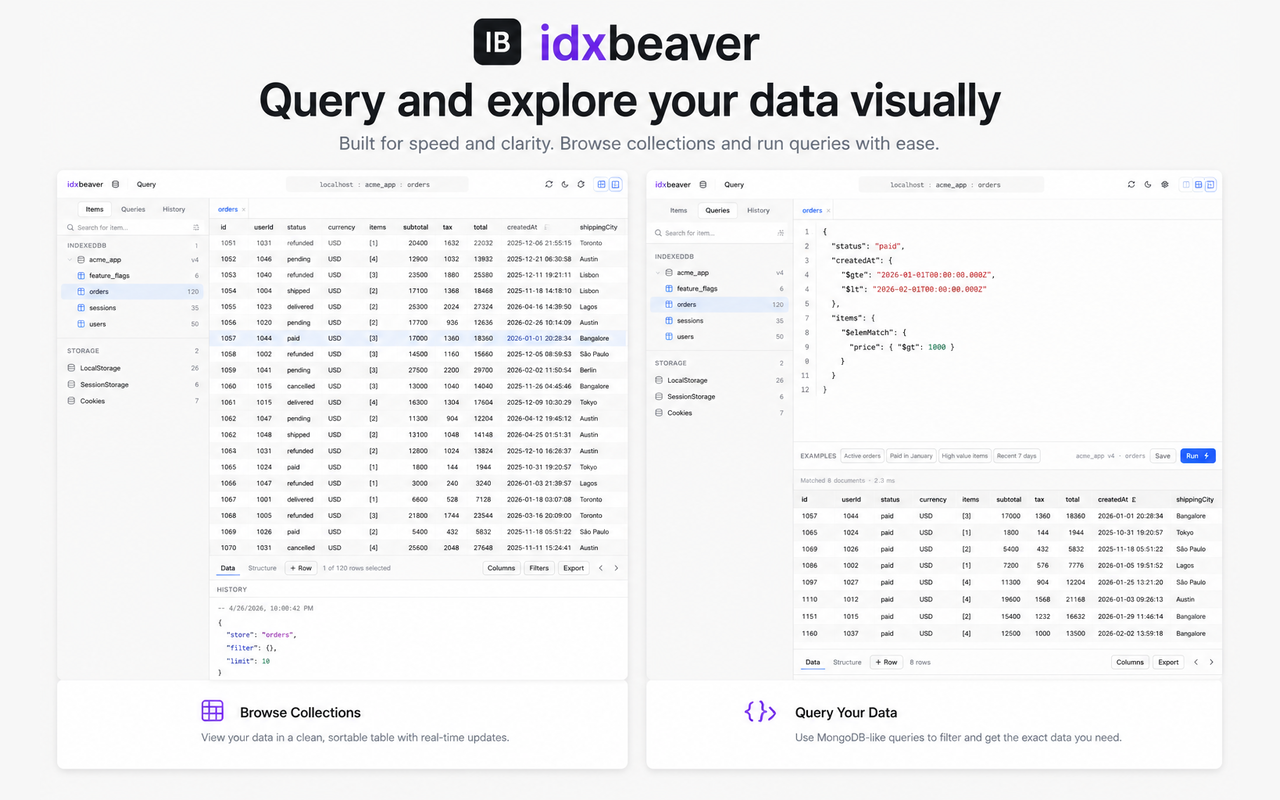
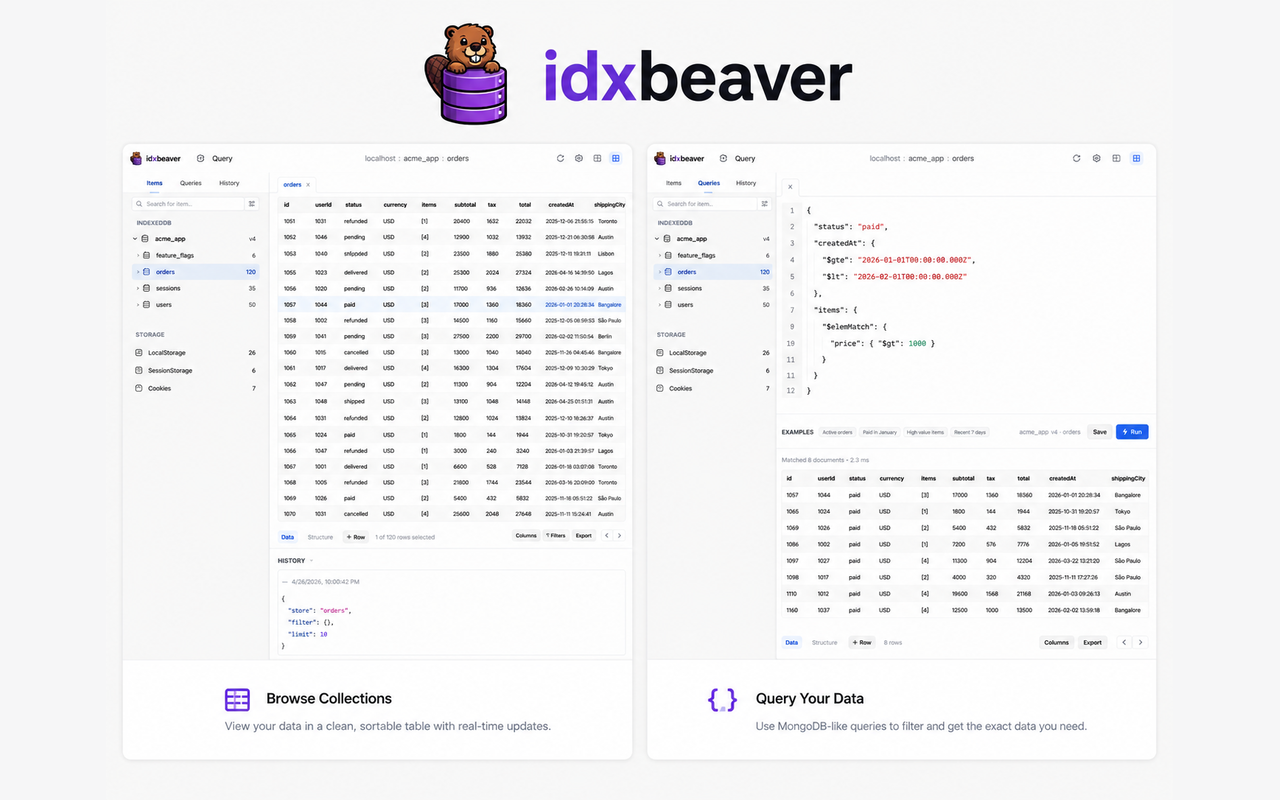
docs(store): refresh Chrome Web Store listing copy and screenshots
- Rewrite name, summary, and description to fit the ≤45/≤132 char limits
  and drop superlatives flagged by the listing guide.
- Swap privacy URL to https://indexbeaver.vercel.app/privacy/.
- Add table, list, query, and filtering 1280x800 screenshots; refit the
  mockup to 1280x800 with neutral side padding.

diff --git a/docs/CHROME_WEB_STORE.md b/docs/CHROME_WEB_STORE.md
@@ -69,38 +69,63 @@ Copy/paste directly into the Dev Console fields.
 
 ## Store listing tab
 
-### Name
+### Name (≤45 chars)
 ```
-IdxBeaver — Browser Storage Client
+IdxBeaver — IndexedDB & Storage Inspector
 ```
-(32 chars max; "IdxBeaver" alone is fine if you prefer a tighter brand.)
+(41 chars. The store allows up to 45; clear-and-descriptive beats clever. Drop to "IdxBeaver" alone if the brand becomes recognizable.)
 
-### Summary (short description, ≤132 chars)
+### Summary (≤132 chars, plain text, no superlatives)
 ```
-A TablePlus-style client for IndexedDB, LocalStorage, cookies, and cache — with MongoDB-style queries, exports, and diffs.
+Inspect, query, edit, and export IndexedDB, LocalStorage, SessionStorage, cookies, and Cache Storage from Chrome DevTools.
 ```
+(122 chars. States the function in concrete terms; no "best", "fastest", or competitor names.)
 
 ### Description (detailed, supports line breaks)
-```
-IdxBeaver turns Chrome's Application panel into a real database client for browser storage.
 
-FEATURES
-• IndexedDB browser — discover every database and object store on every frame of the origin. Inspect records in a zebra-striped grid with column pinning, resizing, and sticky headers.
-• MongoDB-style queries — filter, project, sort, limit. Index-aware plan selection with an in-memory fallback for compound operators. The plan is shown in the UI.
-• Row inspector — per-field editor with type indicators, inline NULL handling, and syntax-highlighted nested JSON.
-• Query history and saved queries — auto-recorded per origin (last 100). Save the ones worth keeping.
-• LocalStorage, SessionStorage, Cookies, and Cache Storage — browse, add, edit, delete, clear.
-• Import and export — NDJSON, CSV, SQL INSERT, and ZIP snapshots. Round-trips non-JSON types (Date, BigInt, Map, Set, Blob, ArrayBuffer).
-• Schema inference — samples rows per store to drive autocomplete and a Structure view. One-click TypeScript / Dexie schema export.
-• Snapshots and diffs — snapshot a store or database, restore or diff against it later.
-• Command palette (⌘K) — jump between stores, tabs, saved queries, and actions.
+Opening paragraph + bulleted feature list, per Chrome's listing guide. Keywords appear naturally in feature names; do not repeat them to game search rankings.
+
+```
+IdxBeaver is a database-style client for browser storage, built into Chrome DevTools. Open DevTools on any page and you get a proper data grid, a query editor, row inspector, schema inference, and import/export for IndexedDB, LocalStorage, SessionStorage, Cookies, and Cache Storage — without leaving the browser.
+
+Chrome's built-in Application panel treats browser storage as an afterthought: no filtering, no schema awareness, no bulk edits, no query history, no exports that survive a page refresh. IdxBeaver turns it into the workflow you already use with a real database client.
+
+Features
+
+• IndexedDB browser — discover every database and object store across every frame of the origin. Inspect records in a zebra-striped grid with column pinning, resizing, sticky headers, and inline editing.
+
+• Query editor with MongoDB-style filters — filter, project, sort, and limit your data with a JSON query language. Index-aware plan selection, with an in-memory fallback for compound operators. The chosen plan is shown alongside results.
+
+• Multi-tab query workspace — keep several queries open at once, each with its own editor and results pane. Save queries you reuse and reopen them in a click.
+
+• Row inspector — per-field editor with type indicators, inline NULL handling, and syntax-highlighted nested JSON. Edit values without writing console code.
+
+• LocalStorage, SessionStorage, Cookies, and Cache Storage browsers — view, add, edit, delete, and clear entries with the same grid UI.
+
+• Import and export — read and write NDJSON, CSV, SQL INSERT statements, and ZIP snapshots. Round-trips non-JSON types including Date, BigInt, Map, Set, Blob, and ArrayBuffer.
+
+• Schema inference — samples rows from a store to power autocomplete and a Structure view. Export the inferred schema as TypeScript types or a Dexie schema definition with one click.
+
+• Snapshots and diffs — snapshot a store or whole database, then restore or diff against it later. Useful for verifying migrations and reproducing bugs.
+
+• Command palette (⌘K) and keyboard shortcuts — jump between stores, tabs, and saved queries without touching the mouse.
+
 • Dark and light themes — configurable UI font, table font (mono or sans), and font size.
 
-PRIVACY
-Everything runs locally. IdxBeaver does not send any of the data it reads to a server. Query history and saved queries are stored inside the extension using chrome.storage.local.
+Built for
 
-OPEN SOURCE
-https://github.com/adityaongit/idxbeaver
+• Frontend developers debugging IndexedDB-backed applications
+• Teams working on offline-first or PWA codebases
+• Anyone who needs to inspect, edit, or migrate data sitting in browser storage
+• Engineers tired of writing one-off console snippets to read or modify storage
+
+Privacy
+
+Everything runs locally on your machine. IdxBeaver makes no network requests: no analytics, no telemetry, no remote configuration. Your preferences, query history, and saved queries are stored using chrome.storage.local and never leave your browser.
+
+Open source
+
+Source code, issue tracker, and changelog: https://github.com/adityaongit/idxbeaver
 ```
 
 ### Category
@@ -193,7 +218,7 @@ No, I am not using remote code.
 ### Privacy policy URL
 Make sure the URL is live before submitting:
 
-- Preferred: `https://idxbeaver.netlify.app/privacy/` (rendered from `landing-site/src/app/privacy/page.tsx`)
+- Preferred: `https://indexbeaver.vercel.app/privacy/` (rendered from `landing-site/src/app/privacy/page.tsx`)
 - Fallback: `https://github.com/adityaongit/idxbeaver/blob/main/docs/PRIVACY.md`
 
 ---
